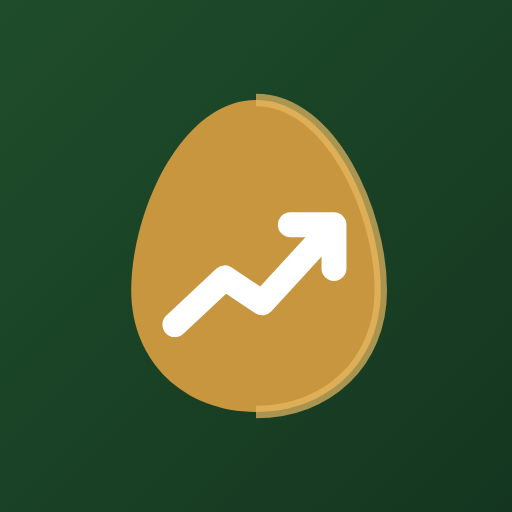
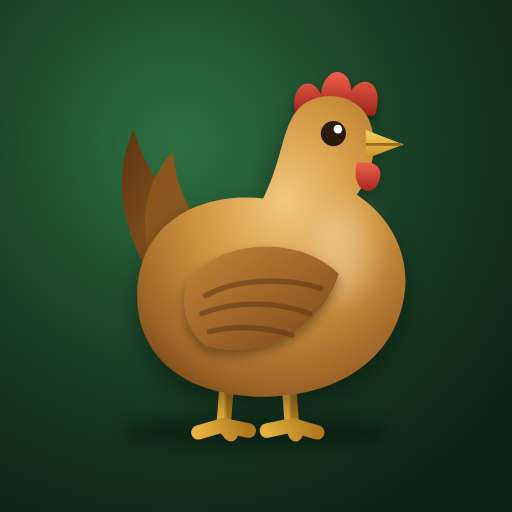
Add files via upload

diff --git a/index.html b/index.html
@@ -37,12 +37,7 @@
 </head>
 <body>
 <div id="abertura" role="status">
-  <svg width="84" height="84" viewBox="0 0 64 64" aria-hidden="true">
-    <path d="M32 7C44 7 52 25 52 37.5C52 49 43.5 57 32 57C20.5 57 12 49 12 37.5C12 25 20 7 32 7Z" fill="#C8963E"/>
-    <path d="M32 7C44 7 52 25 52 37.5C52 49 43.5 57 32 57" fill="none" stroke="#E8B962" stroke-width="2" opacity=".7"/>
-    <polyline points="19,43 27,35.5 33,39.5 44,27.5" fill="none" stroke="#fff" stroke-width="4" stroke-linecap="round" stroke-linejoin="round"/>
-    <polyline points="37.5,27 44.5,27 44.5,34" fill="none" stroke="#fff" stroke-width="4" stroke-linecap="round" stroke-linejoin="round"/>
-  </svg>
+  <svg width="110" height="110" viewBox="0 0 256 256" xmlns="http://www.w3.org/2000/svg" aria-label="GESTAV"><defs><radialGradient id="abbg" cx="35%" cy="28%" r="85%"><stop offset="0" stop-color="#2E7043"/><stop offset=".55" stop-color="#173D24"/><stop offset="1" stop-color="#0B2113"/></radialGradient><filter id="absh" x="-30%" y="-30%" width="160%" height="160%"><feDropShadow dx="0" dy="7" stdDeviation="7" flood-color="#000" flood-opacity=".38"/></filter><filter id="abshp" x="-30%" y="-30%" width="160%" height="160%"><feDropShadow dx="0" dy="3" stdDeviation="3" flood-color="#000" flood-opacity=".35"/></filter><filter id="abb4" x="-60%" y="-60%" width="220%" height="220%"><feGaussianBlur stdDeviation="4"/></filter><filter id="abb8" x="-80%" y="-80%" width="260%" height="260%"><feGaussianBlur stdDeviation="8"/></filter><radialGradient id="abcorpo" cx="55%" cy="35%" r="75%"><stop offset="0" stop-color="#F1C87E"/><stop offset=".45" stop-color="#D0943F"/><stop offset=".85" stop-color="#9A6226"/><stop offset="1" stop-color="#734515"/></radialGradient><linearGradient id="abasa" x1="0" y1="0" x2="1" y2="1"><stop offset="0" stop-color="#C4843A"/><stop offset="1" stop-color="#7A4A18"/></linearGradient><linearGradient id="abcauda" x1="0" y1="0" x2="1" y2="1"><stop offset="0" stop-color="#5A3410"/><stop offset="1" stop-color="#A86C2A"/></linearGradient><linearGradient id="abcrista" x1="0" y1="0" x2="0" y2="1"><stop offset="0" stop-color="#F0604C"/><stop offset="1" stop-color="#A3261C"/></linearGradient><linearGradient id="abbico" x1="0" y1="0" x2="0" y2="1"><stop offset="0" stop-color="#F7D163"/><stop offset="1" stop-color="#C98E22"/></linearGradient><linearGradient id="abperna" x1="0" y1="0" x2="1" y2="0"><stop offset="0" stop-color="#E9B23F"/><stop offset="1" stop-color="#B07A1C"/></linearGradient></defs><ellipse cx="128" cy="226" rx="74" ry="9" fill="#000" opacity=".35" filter="url(#abb4)"/><path d="M78 150 C52 120 48 82 60 58 C70 88 86 108 104 120 Z" fill="url(#abcauda)"/><path d="M74 142 C60 116 66 86 82 70 C84 96 96 112 110 122 Z" fill="#8A561E"/><g stroke="url(#abperna)" stroke-width="8" stroke-linecap="round" fill="none"><path d="M112 196 L110 222"/><path d="M146 196 L148 222"/><path d="M110 222 L96 226 M110 222 L114 227 M110 222 L124 225"/><path d="M148 222 L134 225 M148 222 L150 227 M148 222 L162 226"/></g><path d="M150 50 C146 34 158 26 164 38 C166 22 180 22 181 36 C188 26 200 32 194 50 Z" fill="url(#abcrista)" filter="url(#abshp)"/><path d="M62 150 C62 112 94 92 132 96 C144 72 142 54 154 44 C168 34 188 40 192 56 C196 68 192 82 184 94 C208 110 216 136 208 160 C198 192 164 208 126 206 C88 204 62 184 62 150 Z" fill="url(#abcorpo)" filter="url(#absh)"/><ellipse cx="176" cy="126" rx="16" ry="26" fill="#FFF3D6" opacity=".35" filter="url(#abb8)"/><path d="M90 142 C108 118 152 116 174 138 C164 170 130 186 100 178 C88 168 86 154 90 142 Z" fill="url(#abasa)" filter="url(#abshp)"/><g fill="none" stroke="#5E3812" stroke-opacity=".55" stroke-width="3" stroke-linecap="round"><path d="M100 150 C118 140 146 140 164 146"/><path d="M98 160 C118 152 142 154 158 160"/><path d="M102 170 C118 166 136 168 148 172"/></g><path d="M189 58 L210 66 L189 74 Z" fill="url(#abbico)"/><path d="M189 66 L209 66" stroke="#9C6A18" stroke-width="1.5"/><path d="M184 76 C180 92 194 98 197 84 C198 79 194 76 190 76 Z" fill="url(#abcrista)"/><circle cx="171" cy="60" r="7" fill="#2A1A08"/><circle cx="173.5" cy="57.5" r="2.4" fill="#fff"/></svg>
   <h1>GESTAV</h1>
   <p class="sub">Granja FAVET-UEM</p>
   <div class="barra" id="barra"></div>

diff --git a/sw.js b/sw.js
@@ -1,6 +1,6 @@
 // Guarda a "casca" do aplicativo (ecrã de abertura e ícones) no telemóvel.
 // Os dados da granja vêm sempre do servidor, por isso não ficam guardados aqui.
-const CACHE = "gestav-casca-v1";
+const CACHE = "gestav-casca-v2";
 const FICHEIROS = ["./", "index.html", "manifest.webmanifest", "icon-192.png", "icon-512.png",
                    "icon-maskable-512.png", "apple-touch-icon.png", "favicon-32.png"];
 

diff --git a/estilo.py b/estilo.py
@@ -7,6 +7,7 @@ cores do sistema basta alterar o bloco PALETA abaixo.
 """
 
 import html
+import itertools
 from datetime import datetime
 
 import streamlit as st
@@ -47,19 +48,48 @@ TONS = {
 
 
 # ----------------------------------------------------------------------
-# Logótipo: ovo dourado com uma linha de crescimento (avicultura + gestão)
+# Logótipo: frango com volume, luz e sombra (avicultura)
 # ----------------------------------------------------------------------
+_N_LOGO = itertools.count()
+
+
+def _frango_svg(tamanho=44, fundo=False, k="gv", escala=1.0, raio=56):
+    d = f'''<defs>
+<radialGradient id="{k}bg" cx="35%" cy="28%" r="85%"><stop offset="0" stop-color="#2E7043"/><stop offset=".55" stop-color="#173D24"/><stop offset="1" stop-color="#0B2113"/></radialGradient>
+<filter id="{k}sh" x="-30%" y="-30%" width="160%" height="160%"><feDropShadow dx="0" dy="7" stdDeviation="7" flood-color="#000" flood-opacity=".38"/></filter>
+<filter id="{k}shp" x="-30%" y="-30%" width="160%" height="160%"><feDropShadow dx="0" dy="3" stdDeviation="3" flood-color="#000" flood-opacity=".35"/></filter>
+<filter id="{k}b4" x="-60%" y="-60%" width="220%" height="220%"><feGaussianBlur stdDeviation="4"/></filter>
+<filter id="{k}b8" x="-80%" y="-80%" width="260%" height="260%"><feGaussianBlur stdDeviation="8"/></filter>
+<radialGradient id="{k}corpo" cx="55%" cy="35%" r="75%"><stop offset="0" stop-color="#F1C87E"/><stop offset=".45" stop-color="#D0943F"/><stop offset=".85" stop-color="#9A6226"/><stop offset="1" stop-color="#734515"/></radialGradient>
+<linearGradient id="{k}asa" x1="0" y1="0" x2="1" y2="1"><stop offset="0" stop-color="#C4843A"/><stop offset="1" stop-color="#7A4A18"/></linearGradient>
+<linearGradient id="{k}cauda" x1="0" y1="0" x2="1" y2="1"><stop offset="0" stop-color="#5A3410"/><stop offset="1" stop-color="#A86C2A"/></linearGradient>
+<linearGradient id="{k}crista" x1="0" y1="0" x2="0" y2="1"><stop offset="0" stop-color="#F0604C"/><stop offset="1" stop-color="#A3261C"/></linearGradient>
+<linearGradient id="{k}bico" x1="0" y1="0" x2="0" y2="1"><stop offset="0" stop-color="#F7D163"/><stop offset="1" stop-color="#C98E22"/></linearGradient>
+<linearGradient id="{k}perna" x1="0" y1="0" x2="1" y2="0"><stop offset="0" stop-color="#E9B23F"/><stop offset="1" stop-color="#B07A1C"/></linearGradient>
+</defs>'''
+    f = (f'<rect width="256" height="256" rx="{raio}" fill="url(#{k}bg)"/>' if fundo else "")
+    c = f'''<ellipse cx="128" cy="226" rx="74" ry="9" fill="#000" opacity=".35" filter="url(#{k}b4)"/>
+<path d="M78 150 C52 120 48 82 60 58 C70 88 86 108 104 120 Z" fill="url(#{k}cauda)"/>
+<path d="M74 142 C60 116 66 86 82 70 C84 96 96 112 110 122 Z" fill="#8A561E"/>
+<g stroke="url(#{k}perna)" stroke-width="8" stroke-linecap="round" fill="none"><path d="M112 196 L110 222"/><path d="M146 196 L148 222"/><path d="M110 222 L96 226 M110 222 L114 227 M110 222 L124 225"/><path d="M148 222 L134 225 M148 222 L150 227 M148 222 L162 226"/></g>
+<path d="M150 50 C146 34 158 26 164 38 C166 22 180 22 181 36 C188 26 200 32 194 50 Z" fill="url(#{k}crista)" filter="url(#{k}shp)"/>
+<path d="M62 150 C62 112 94 92 132 96 C144 72 142 54 154 44 C168 34 188 40 192 56 C196 68 192 82 184 94 C208 110 216 136 208 160 C198 192 164 208 126 206 C88 204 62 184 62 150 Z" fill="url(#{k}corpo)" filter="url(#{k}sh)"/>
+<ellipse cx="176" cy="126" rx="16" ry="26" fill="#FFF3D6" opacity=".35" filter="url(#{k}b8)"/>
+<path d="M90 142 C108 118 152 116 174 138 C164 170 130 186 100 178 C88 168 86 154 90 142 Z" fill="url(#{k}asa)" filter="url(#{k}shp)"/>
+<g fill="none" stroke="#5E3812" stroke-opacity=".55" stroke-width="3" stroke-linecap="round"><path d="M100 150 C118 140 146 140 164 146"/><path d="M98 160 C118 152 142 154 158 160"/><path d="M102 170 C118 166 136 168 148 172"/></g>
+<path d="M189 58 L210 66 L189 74 Z" fill="url(#{k}bico)"/><path d="M189 66 L209 66" stroke="#9C6A18" stroke-width="1.5"/>
+<path d="M184 76 C180 92 194 98 197 84 C198 79 194 76 190 76 Z" fill="url(#{k}crista)"/>
+<circle cx="171" cy="60" r="7" fill="#2A1A08"/><circle cx="173.5" cy="57.5" r="2.4" fill="#fff"/>'''
+    off = 128 - 128 * escala
+    corpo = f'<g transform="translate({off} {off}) scale({escala})">{c}</g>' if escala != 1.0 else c
+    s = f'<svg width="{tamanho}" height="{tamanho}" viewBox="0 0 256 256" xmlns="http://www.w3.org/2000/svg" aria-label="GESTAV">{d}{f}{corpo}</svg>'
+    return "".join(l.strip() for l in s.splitlines())
+
+
 def logo_svg(tamanho: int = 44, fundo: str | None = None) -> str:
-    fundo_rect = (
-        f'<rect width="64" height="64" rx="16" fill="{fundo}"/>' if fundo else ""
-    )
-    return f"""<svg width="{tamanho}" height="{tamanho}" viewBox="0 0 64 64" xmlns="http://www.w3.org/2000/svg" aria-label="GESTAV">
-{fundo_rect}
-<path d="M32 7C44 7 52 25 52 37.5C52 49 43.5 57 32 57C20.5 57 12 49 12 37.5C12 25 20 7 32 7Z" fill="{P['ouro']}"/>
-<path d="M32 7C44 7 52 25 52 37.5C52 49 43.5 57 32 57" fill="none" stroke="#E8B962" stroke-width="2" opacity=".7"/>
-<polyline points="19,43 27,35.5 33,39.5 44,27.5" fill="none" stroke="#FFFFFF" stroke-width="4" stroke-linecap="round" stroke-linejoin="round"/>
-<polyline points="37.5,27 44.5,27 44.5,34" fill="none" stroke="#FFFFFF" stroke-width="4" stroke-linecap="round" stroke-linejoin="round"/>
-</svg>"""
+    """Devolve o logótipo em SVG. Cada chamada usa ids próprios para os
+    gradientes, para o logótipo poder aparecer várias vezes na mesma página."""
+    return _frango_svg(tamanho, fundo=bool(fundo), k=f"gv{next(_N_LOGO)}_")
 
 
 # ----------------------------------------------------------------------
